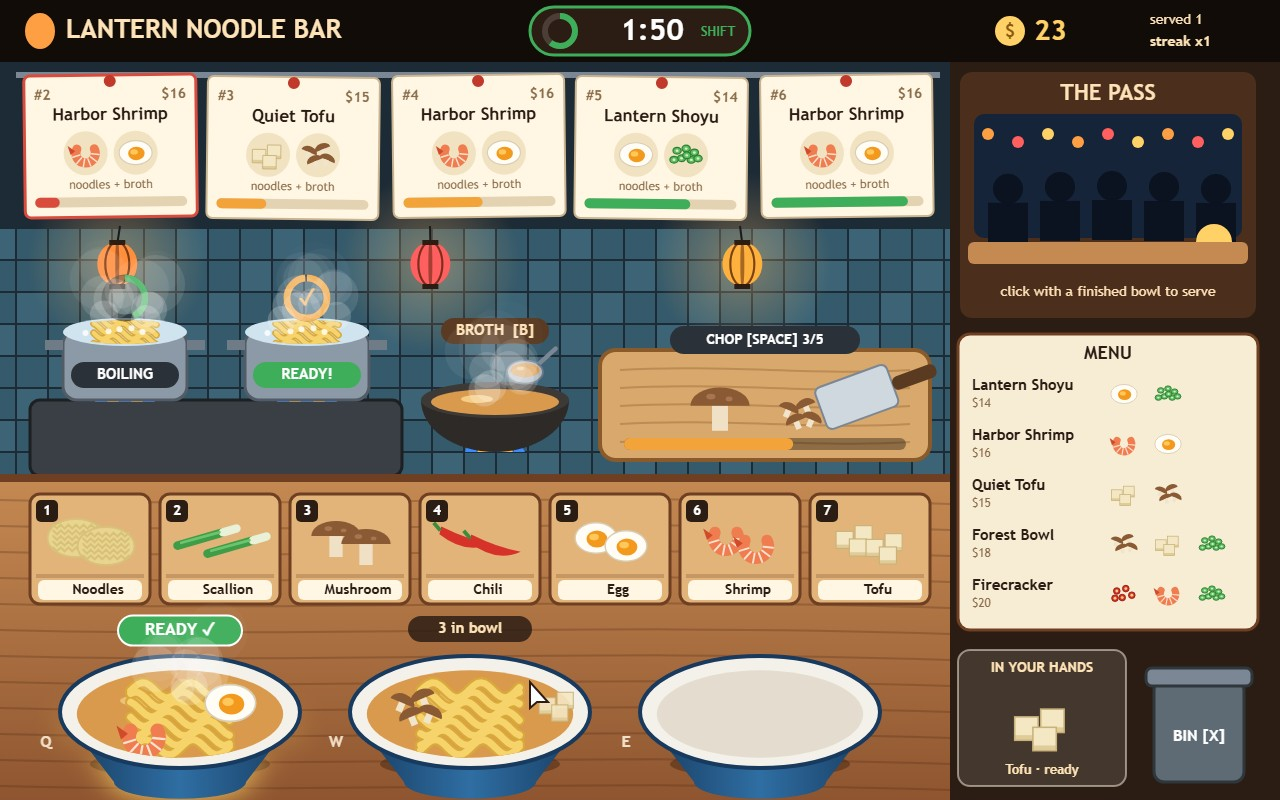
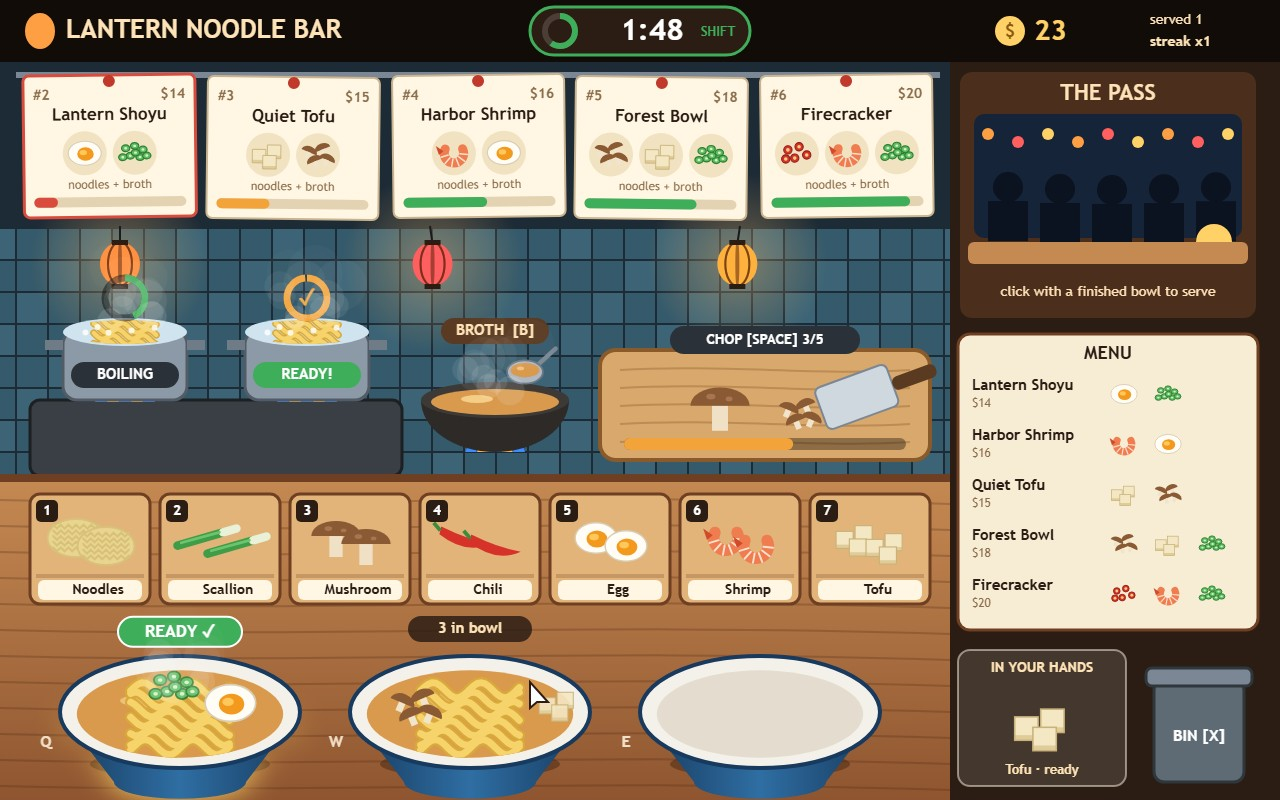
Lantern Noodle Bar v2: lighter steam, cover shows all five recipes

diff --git a/game/src/effects.js b/game/src/effects.js
@@ -95,8 +95,8 @@ export function drawEffects(ctx, fx) {
     const fade = 1 - p.age / p.life;
     ctx.beginPath();
     if (p.color === 'steam') {
-      ctx.fillStyle = `rgba(255, 255, 255, ${0.22 * fade})`;
-      ctx.arc(p.x, p.y, p.r * (1 + p.age), 0, Math.PI * 2);
+      ctx.fillStyle = `rgba(255, 255, 255, ${0.12 * fade})`;
+      ctx.arc(p.x, p.y, p.r * (1 + p.age * 0.6), 0, Math.PI * 2);
     } else {
       ctx.globalAlpha = fade;
       ctx.fillStyle = p.color;
